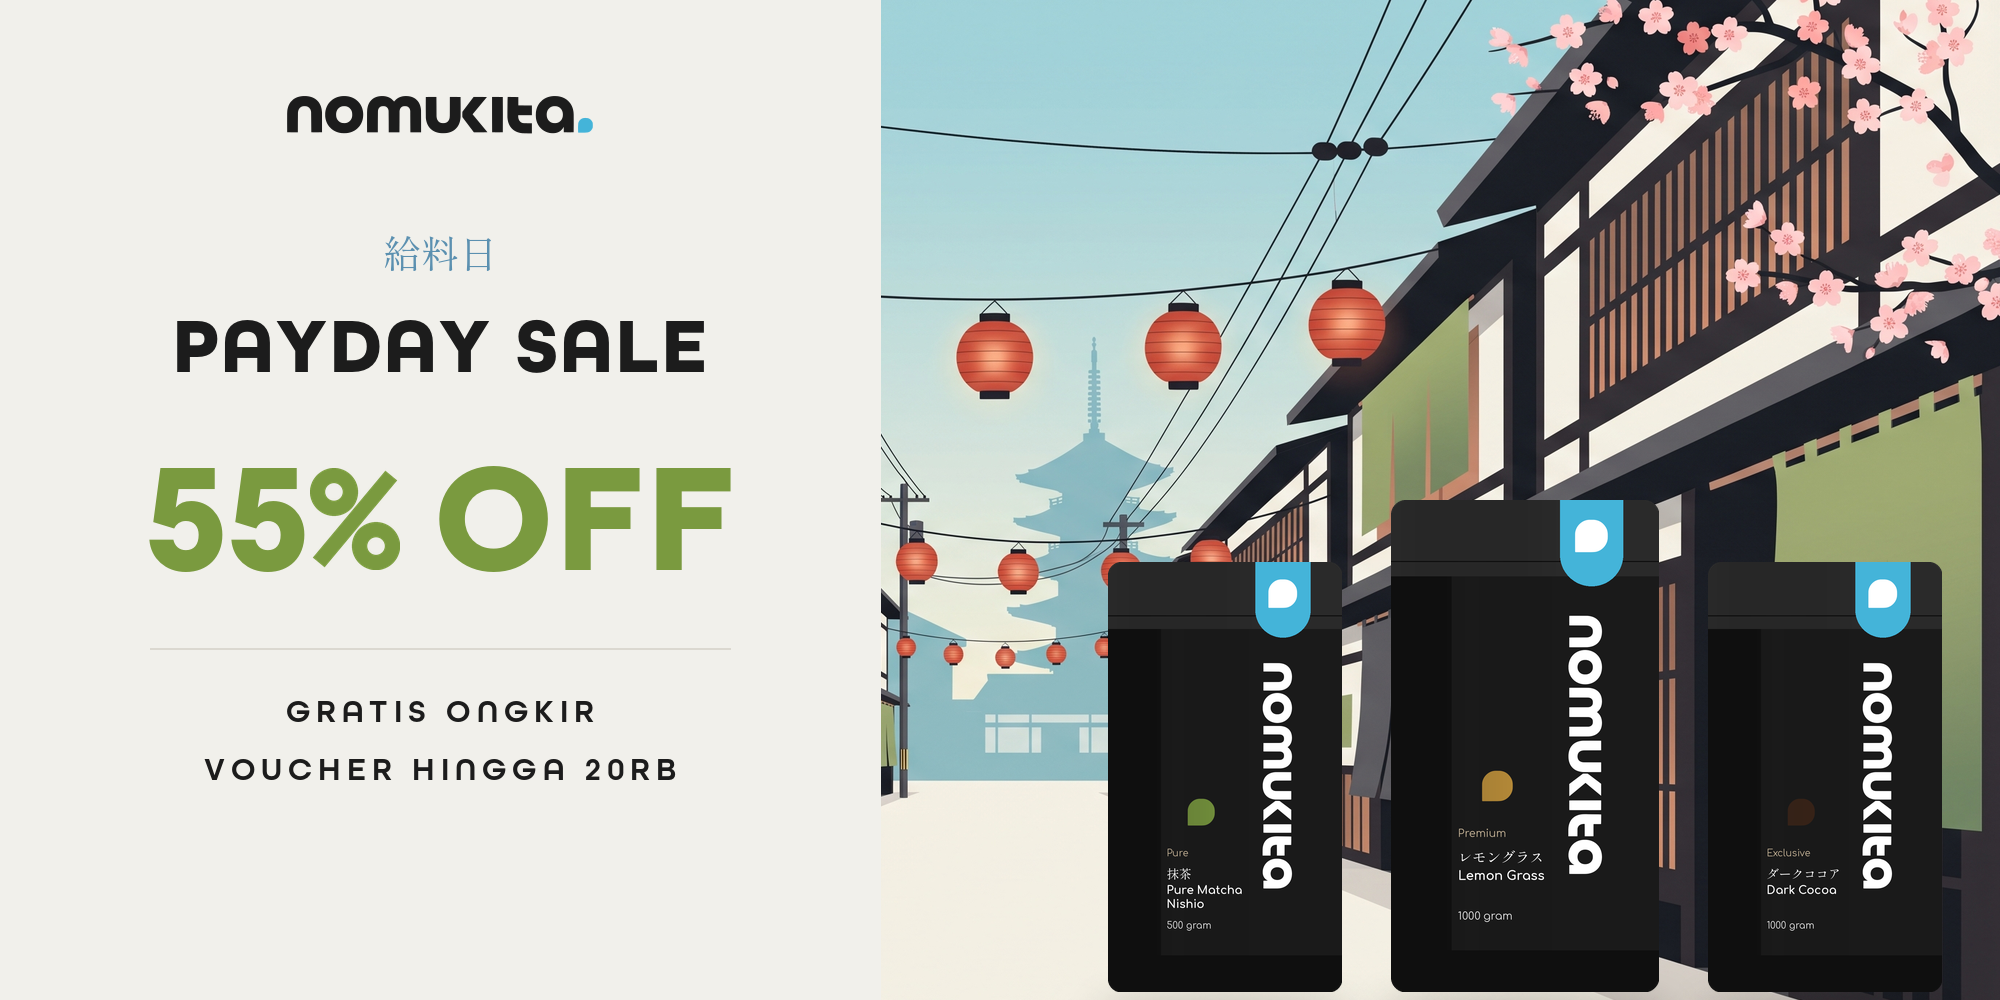
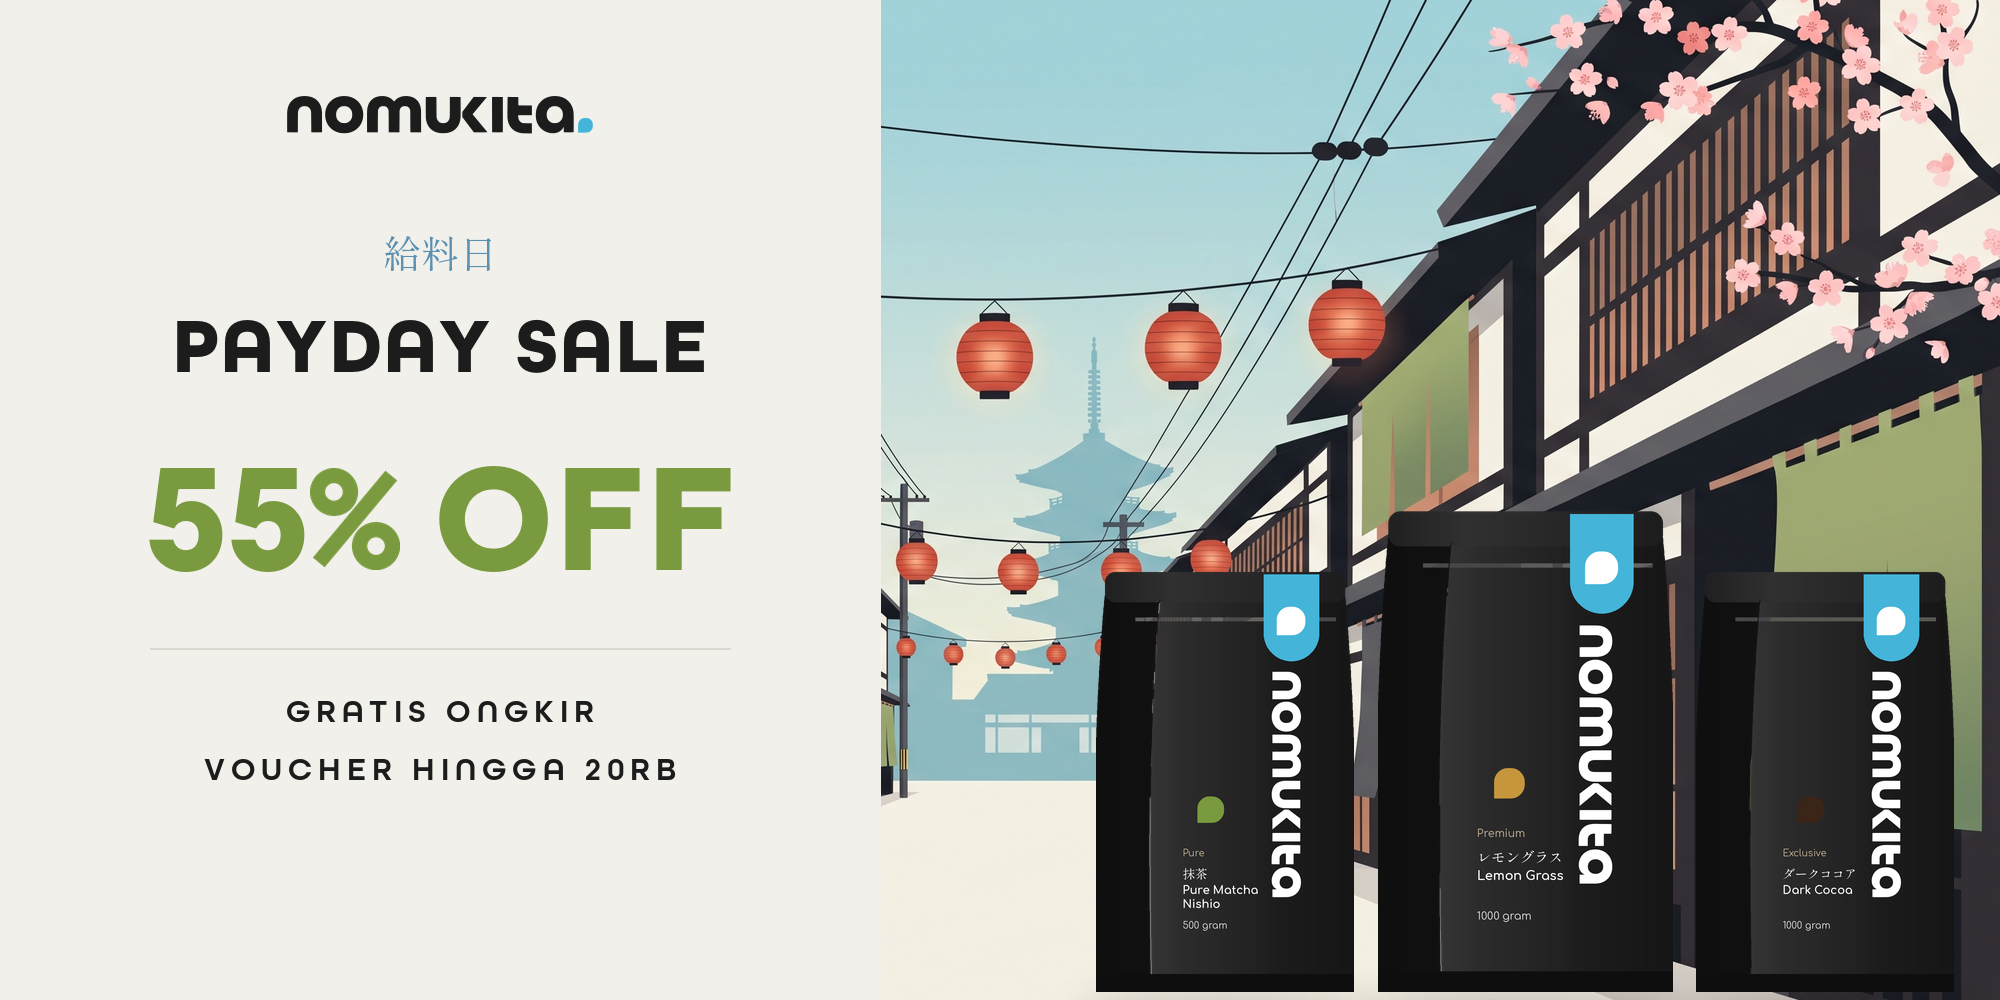
Give the pouch volume, rework the tea room, rewrite heritage copy
The pouch is rebuilt with form rather than a flat face: a bulged
silhouette sampled along its height, a gusset face turned away from the
light with a visible fold seam, a flat sealed top and zip strip, a base
band to stand on, and gradient shading across the front. The wordmark,
tab and dot still come from the source SVGs, so the type stays exact
while the object reads three-dimensional.

The tea room is regenerated with the cues that were missing: shoji slid
open onto a raked gravel garden with a stone toro and a red maple, a
tokonoma alcove, tatami and an indigo noren.

Heritage copy drops first and second person entirely, as does the terms
banner, which now names the brand instead of saying "kami". The line
about a taste already familiar from a regular cafe carries the fifteen
years without stating them twice.

Claude-Session: https://claude.ai/code/session_01LqXMhsXVUSTDGQKyLmseEg

Changed region(s): [[0.527, 0.496, 0.992, 0.992]]

diff --git a/banners/nomukita.py b/banners/nomukita.py
@@ -406,3 +406,162 @@ def flat_pouch(height, accent, label=None, wordmark_ratio=0.56,
     d.rectangle([0, H_ - bh - r, W_, H_ - bh], fill=gusset + (255,))
 
     return im.resize((w, height), Image.LANCZOS)
+
+
+# ── 3D-illustration pouch ─────────────────────────────────────────────────
+
+def _hgrad(size, stops):
+    """One-pixel-tall gradient stretched to size. stops: [(t, value), ...]."""
+    w, h = size
+    strip = Image.new('L', (w, 1))
+    px = strip.load()
+    for x in range(w):
+        t = x / max(w - 1, 1)
+        for i in range(len(stops) - 1):
+            t0, v0 = stops[i]
+            t1, v1 = stops[i + 1]
+            if t0 <= t <= t1:
+                k = (t - t0) / max(t1 - t0, 1e-6)
+                px[x, 0] = int(v0 + (v1 - v0) * k)
+                break
+        else:
+            px[x, 0] = stops[-1][1]
+    return strip.resize((w, h))
+
+
+def pouch3d(height, accent, label=None, body=(30, 30, 30), tab=LOGO_BLUE, ss=3):
+    """A stand-up pouch drawn with volume: bulged silhouette, angled gusset
+    face, a top plane and form shading.
+
+    Built rather than generated — an image model cannot be trusted with the
+    vertical wordmark, and the mockups are photographs, not illustration.
+    """
+    import subprocess, tempfile, re, math
+
+    Wp = round(height * 0.60)
+    W_, H_ = Wp * ss, height * ss
+    im = Image.new('RGBA', (W_, H_), (0, 0, 0, 0))
+
+    top_y = round(H_ * 0.075)          # top plane sits above this
+    gw = W_ * 0.215                    # side gusset face
+    bulge = W_ * 0.022
+
+    def edges(t):
+        """Left and right silhouette x at vertical fraction t (0 top, 1 bottom)."""
+        swell = bulge * math.sin(math.pi * min(max(t, 0), 1) ** 0.85)
+        left = W_ * 0.035 * (1 - t) - swell
+        right = W_ - W_ * 0.035 * (1 - t) + swell
+        return left, right
+
+    steps = 160
+    left_pts, right_pts, seam_pts = [], [], []
+    for i in range(steps + 1):
+        t = i / steps
+        y = top_y + (H_ - top_y) * t
+        lx, rx = edges(t)
+        left_pts.append((lx, y))
+        right_pts.append((rx, y))
+        seam_pts.append((lx + gw, y))
+
+    silhouette = left_pts + right_pts[::-1]
+    front_poly = seam_pts + right_pts[::-1]
+    gusset_poly = left_pts + seam_pts[::-1]
+
+    d = ImageDraw.Draw(im)
+    d.polygon(silhouette, fill=body + (255,))
+
+    # form shading across the front face: light from the upper left
+    front_mask = Image.new('L', (W_, H_), 0)
+    ImageDraw.Draw(front_mask).polygon(front_poly, fill=255)
+    shade = Image.new('RGBA', (W_, H_), (255, 255, 255, 0))
+    shade.putalpha(_hgrad((W_, H_), [(0.0, 0), (0.16, 30), (0.34, 16),
+                                     (0.72, 0), (1.0, 0)]))
+    im.paste(Image.alpha_composite(im, shade), (0, 0), front_mask)
+    dark = Image.new('RGBA', (W_, H_), (0, 0, 0, 0))
+    dark.putalpha(_hgrad((W_, H_), [(0.0, 0), (0.60, 0), (1.0, 74)]))
+    im.paste(Image.alpha_composite(im, dark), (0, 0), front_mask)
+
+    # the gusset is turned away from the light
+    gm = Image.new('L', (W_, H_), 0)
+    ImageDraw.Draw(gm).polygon(gusset_poly, fill=255)
+    gshade = Image.new('RGBA', (W_, H_), (0, 0, 0, 0))
+    gshade.putalpha(_hgrad((W_, H_), [(0.0, 130), (0.6, 88), (1.0, 150)]))
+    im.paste(Image.alpha_composite(im, gshade), (0, 0), gm)
+
+    # flat sealed top edge, the way the real pack is finished
+    l0, r0 = edges(0)
+    seal_h = H_ * 0.052
+    d.rounded_rectangle([l0, top_y - seal_h, r0, top_y + seal_h * 0.35],
+                        radius=round(seal_h * 0.45), fill=(52, 52, 52, 255))
+    seal_mask = Image.new('L', (W_, H_), 0)
+    ImageDraw.Draw(seal_mask).rounded_rectangle(
+        [l0, top_y - seal_h, r0, top_y + seal_h * 0.35],
+        radius=round(seal_h * 0.45), fill=255)
+    sshade = Image.new('RGBA', (W_, H_), (0, 0, 0, 0))
+    sshade.putalpha(_hgrad((W_, H_), [(0.0, 110), (0.3, 20), (1.0, 120)]))
+    im.paste(Image.alpha_composite(im, sshade), (0, 0), seal_mask)
+
+    # zip strip below the seal
+    zip_y = top_y + H_ * 0.058
+    d.line([(l0 + gw * 0.55, zip_y), (r0 - W_ * 0.035, zip_y)],
+           fill=(78, 78, 78, 220), width=max(round(H_ * 0.009), 2))
+
+    # seam where the gusset folds away from the front face
+    d.line(seam_pts[2:], fill=(10, 10, 10, 120), width=max(round(ss * 0.9), 1))
+
+    # base band — the flat bottom the pouch stands on
+    base_t = 0.955
+    lb, rb = edges(base_t)
+    d.polygon([(lb, top_y + (H_ - top_y) * base_t), (rb, top_y + (H_ - top_y) * base_t),
+               (right_pts[-1][0], H_), (left_pts[-1][0], H_)],
+              fill=(14, 14, 14, 255))
+
+    fl, fr = seam_pts[0][0], right_pts[0][0]     # front face span at the top
+    fw = fr - fl
+
+    # cyan tab
+    tw, th = round(fw * 0.30), round(H_ * 0.155)
+    tx = round(fl + fw * 0.56)
+    d.rounded_rectangle([tx, top_y - seal_h * 0.9, tx + tw, top_y + th],
+                        radius=tw // 2, corners=(False, False, True, True),
+                        fill=tab + (255,))
+
+    def svg_png(name, colour, **kw):
+        s = (REPO / f'brand/logo/nomukita-{name}.svg').read_text()
+        if name == 'wordmark':
+            s = re.sub(r'<g transform="[^"]*" fill="#44B4D9"[^>]*>.*?</g>', '',
+                       s, flags=re.S)
+        s = re.sub(r'fill="#[0-9A-Fa-f]{6}"', f'fill="{colour}"', s)
+        with tempfile.NamedTemporaryFile(suffix='.svg', mode='w', delete=False) as f:
+            f.write(s)
+            src = f.name
+        with tempfile.NamedTemporaryFile(suffix='.png', delete=False) as t:
+            arg_ = ['-w', str(kw['w'])] if 'w' in kw else ['-h', str(kw['h'])]
+            subprocess.run(['rsvg-convert', *arg_, src, '-o', t.name], check=True)
+            return Image.open(t.name).convert('RGBA')
+
+    mark = svg_png('logomark', '#FFFFFF', h=round(tw * 0.52))
+    im.alpha_composite(mark, (tx + (tw - mark.width) // 2,
+                              round(top_y + th * 0.40) - mark.height // 2))
+
+    word = svg_png('wordmark', '#FFFFFF', w=round(H_ * 0.56))
+    word = word.transpose(Image.ROTATE_270)
+    im.alpha_composite(word, (round(fl + fw * 0.60), round(H_ * 0.255)))
+
+    dot = svg_png('logomark', '#%02X%02X%02X' % accent[:3], h=round(fw * 0.145))
+    im.alpha_composite(dot, (round(fl + fw * 0.20), round(H_ * 0.545)))
+
+    if label:
+        series, kanji, name, gram = label
+        lx, ly = round(fl + fw * 0.12), round(H_ * 0.665)
+        d.text((lx, ly), series, font=comf(round(H_ * 0.022), 400),
+               fill=(198, 180, 152, 255))
+        d.text((lx, ly + H_ * 0.038), kanji, font=jp(round(H_ * 0.029)),
+               fill=(255, 255, 255, 255))
+        for i, ln in enumerate(name):
+            d.text((lx, ly + H_ * (0.084 + i * 0.032)), ln,
+                   font=comf(round(H_ * 0.026), 700), fill=(255, 255, 255, 255))
+        d.text((lx, ly + H_ * 0.168), gram, font=comf(round(H_ * 0.022), 400),
+               fill=(228, 228, 228, 255))
+
+    return im.resize((Wp, height), Image.LANCZOS)

diff --git a/banners/build.py b/banners/build.py
@@ -46,9 +46,9 @@ def payday():
         (None, (198, 150, 60), 492, 1525, ('Premium', 'レモングラス', ['Lemon Grass'], '1000 gram')),
         (None, COCOA, 430, 1825, ('Exclusive', 'ダークココア', ['Dark Cocoa'], '1000 gram')),
     ):
-        pouch = N.flat_pouch(ph, accent, label=label)
+        pouch = N.pouch3d(ph, accent, label=label)
         x, y = cx - pouch.width / 2, WIDE_H - ph - 8
-        N.contact_shadow(c, pouch, x, y, blur=16, opacity=70)
+        N.contact_shadow(c, pouch, x, y, blur=18, opacity=76)
         c.alpha_composite(pouch, (round(x), round(y)))
 
     N.logo(c, y=96, width=306, within=panel)
@@ -96,7 +96,7 @@ def terms():
          'tanpa video, barang tidak bisa diretur.'),
         ('02', 'BARANG RUSAK ATAU TIDAK SESUAI',
          'jika pesanan diterima dalam keadaan rusak, cacat, atau tidak sesuai, '
-         'hubungi customer service kami dengan menyertakan keluhan dan video unboxing.'),
+         'hubungi customer service nomukita dengan menyertakan keluhan dan video unboxing.'),
         ('03', 'KENDALA PENGIRIMAN',
          'untuk masalah pada proses kirim, hubungi CS ekspedisi terkait.'),
     ]
@@ -119,42 +119,40 @@ def terms():
 # ── 3. Fifteen years — 2:1 ────────────────────────────────────────────────
 def heritage():
     c = N.canvas(WIDE_W, WIDE_H)
-    panel_x = 1105
+    panel = 880
 
-    art = N.cover(N.trim_frame(Image.open(ILLUS2 / 'teahouse.png')), WIDE_W, WIDE_H)
+    art = N.cover(N.trim_frame(Image.open(ILLUS2 / 'teahouse2.png')), WIDE_W, WIDE_H)
     c.paste(art, (0, 0))
 
     for accent, ph, cx, label in (
-        (MATCHA, 396, 235, ('Pure', '抹茶', ['Pure Matcha', 'Uji Kyoto'], '500 gram')),
-        (COCOA, 452, 530, ('Exclusive', 'ダークココア', ['Dark Cocoa'], '1000 gram')),
-        ((198, 150, 60), 396, 825, ('Premium', 'テ・タリック', ['Teh Tarik'], '1000 gram')),
+        (MATCHA, 424, 1215, ('Pure', '抹茶', ['Pure Matcha', 'Uji Kyoto'], '500 gram')),
+        (COCOA, 488, 1520, ('Exclusive', 'ダークココア', ['Dark Cocoa'], '1000 gram')),
+        ((198, 150, 60), 424, 1825, ('Premium', 'テ・タリック', ['Teh Tarik'], '1000 gram')),
     ):
-        pouch = N.flat_pouch(ph, accent, label=label)
+        pouch = N.pouch3d(ph, accent, label=label)
         x, y = cx - pouch.width / 2, WIDE_H - ph - 8
-        N.contact_shadow(c, pouch, x, y, blur=15, opacity=66)
+        N.contact_shadow(c, pouch, x, y, blur=18, opacity=76)
         c.alpha_composite(pouch, (round(x), round(y)))
 
     d = ImageDraw.Draw(c)
-    d.rectangle([panel_x, 0, WIDE_W, WIDE_H], fill=BONE + (255,))
-    span = WIDE_W - panel_x
-    mid = panel_x + span / 2
+    d.rectangle([0, 0, panel, WIDE_H], fill=BONE + (255,))
+    mid = panel / 2
 
-    N.logo(c, y=96, width=290, x=panel_x + (span - 290) / 2)
-    d.text((mid, 252), '十五年', font=N.jp(36), fill=STEEL, anchor='ms')
-    N.text(d, (mid, 356), "YOU'VE TASTED", 66, CHARCOAL, tracking=2, align='center')
-    N.text(d, (mid, 428), 'THIS BEFORE', 66, CHARCOAL, tracking=2, align='center')
-    N.text(d, (mid, 500), '15 TAHUN DI RATUSAN KAFE', 25, MATCHA, demi=True,
-           tracking=5, align='center')
-    N.rule(d, 552, x0=panel_x + 70, x1=WIDE_W - 70)
-    N.body(d, (mid, 606), [
-        'mungkin Anda sudah pernah minum',
-        'matcha kami di kafe langganan, tanpa',
-        'pernah lihat kemasannya.',
-    ], 27, CHARCOAL, align='center')
-    N.body(d, (mid, 760), [
-        'sekarang, bisa diseduh sendiri di rumah.',
-    ], 27, CHARCOAL, align='center')
-    N.body(d, (mid, WIDE_H - 96), ['powdered to perfection'], 21,
+    N.logo(c, y=96, width=306, within=panel)
+    d.text((mid, 268), '十五年', font=N.jp(38), fill=STEEL, anchor='ms')
+    N.text(d, (mid, 380), 'FIFTEEN YEARS', 72, CHARCOAL, tracking=2, align='center')
+    N.text(d, (mid, 458), 'IN THE CUP', 72, CHARCOAL, tracking=2, align='center')
+    N.text(d, (mid, 534), '15 TAHUN DI RATUSAN KAFE', 26, MATCHA, demi=True,
+           tracking=6, align='center')
+    N.rule(d, 596, x0=WIDE_M + 30, x1=panel - WIDE_M - 30)
+    N.body(d, (mid, 648), [
+        'rasa yang sudah lama akrab',
+        'di cangkir kafe langganan.',
+    ], 29, CHARCOAL, align='center')
+    N.body(d, (mid, 782), [
+        'kini tinggal diseduh sendiri di rumah.',
+    ], 29, CHARCOAL, align='center')
+    N.body(d, (mid, WIDE_H - 108), ['powdered to perfection'], 21,
            (150, 148, 143), align='center')
     return N.finish(c, OUT / '3-15-tahun.png')
 
